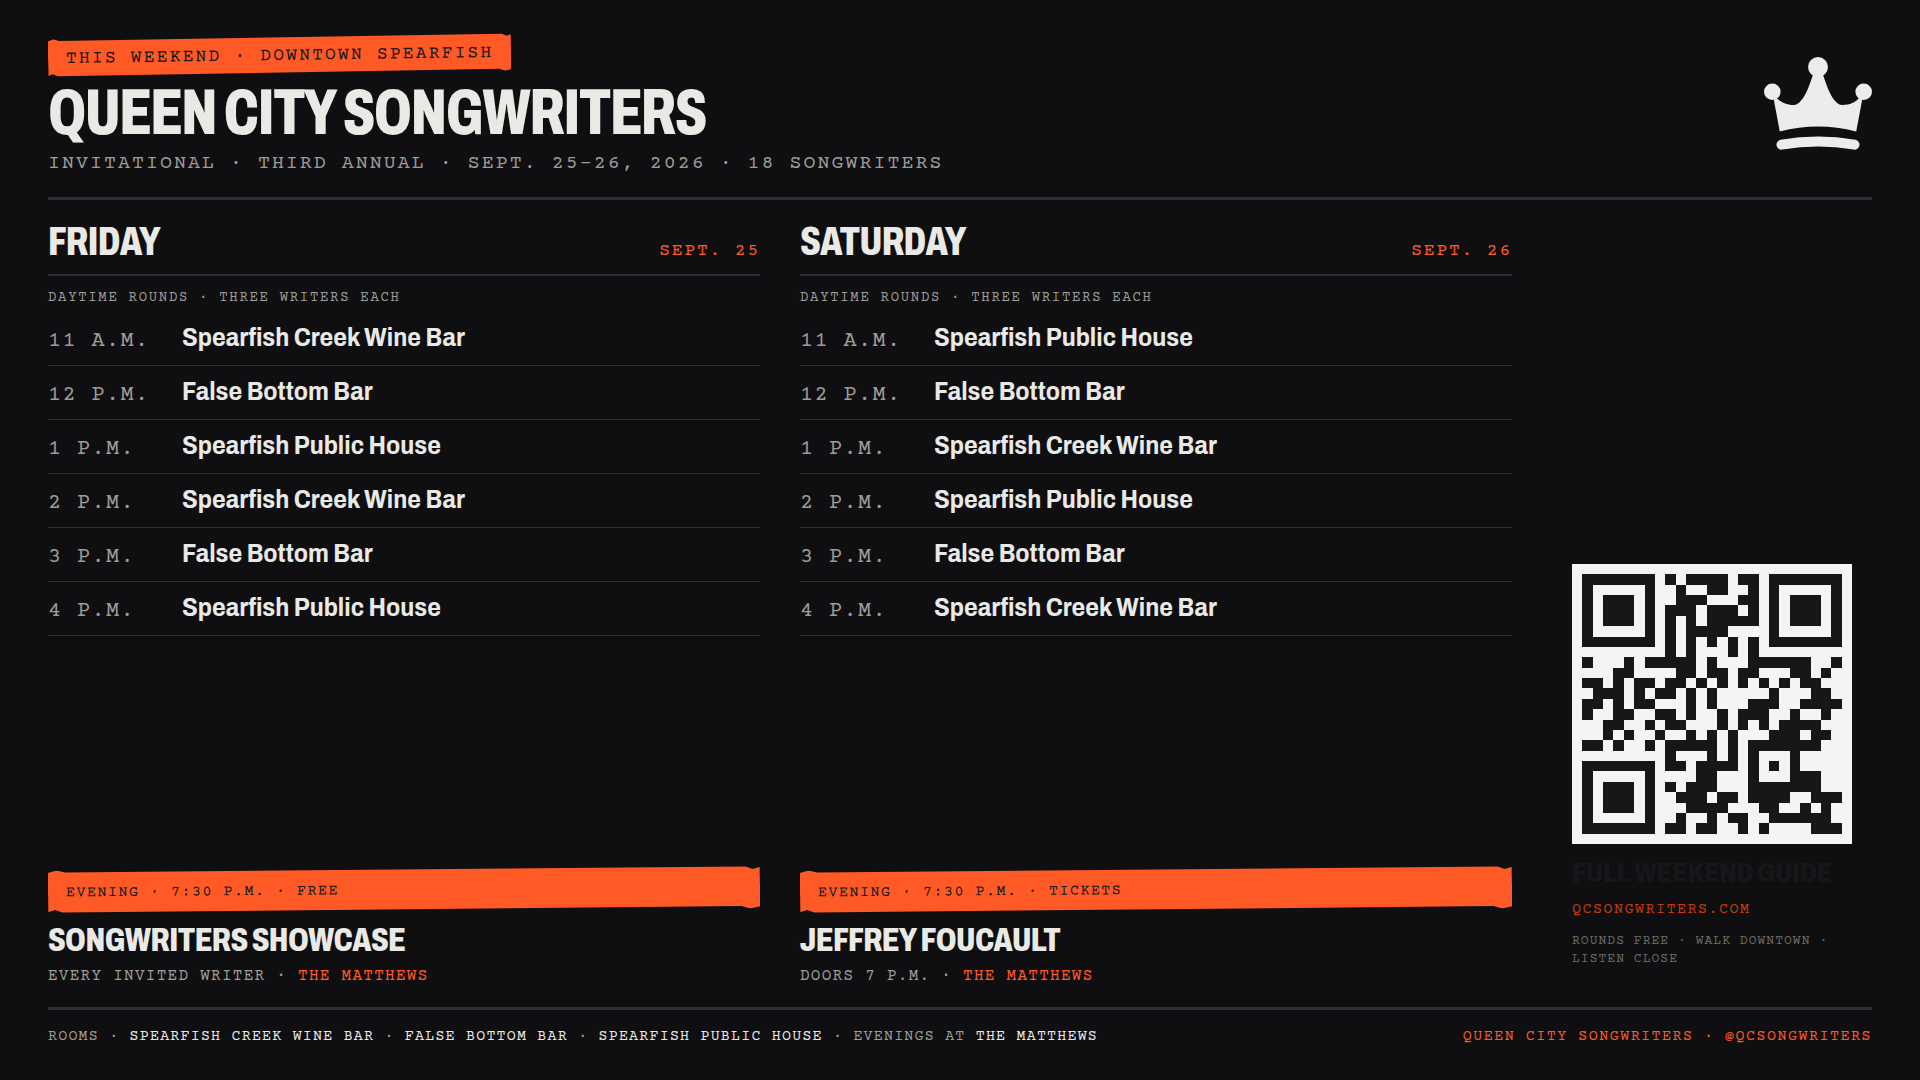
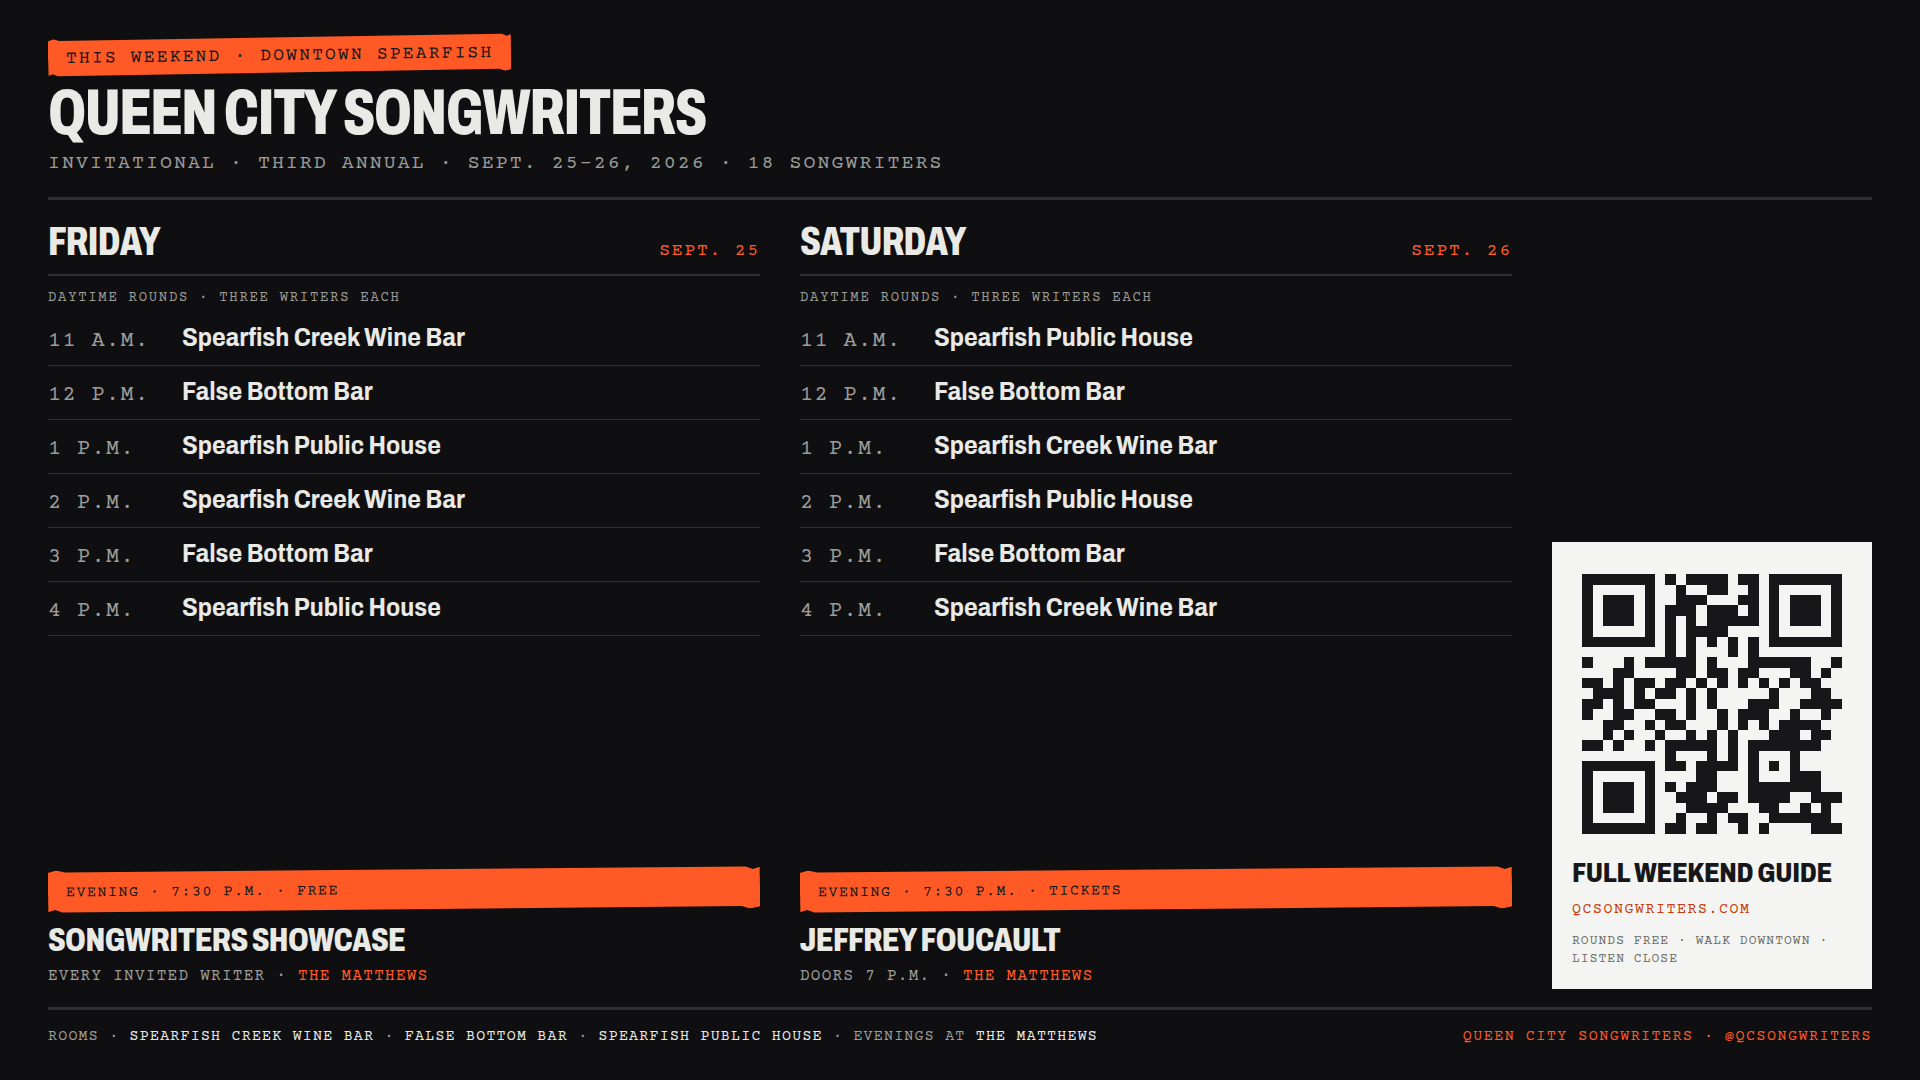
Fix weekend TV CTA paper sheet: use --stock so Field Rule paints.
Undefined --paper left ink labels on the floor; QR sheet now uses the frames kit stock token and the PNG is re-exported.

Changed region(s): [[0.7812, 0.4889, 1.0, 0.9167], [0.9062, 0.0611, 0.9688, 0.1528]]

diff --git a/public/_frames/weekend-tv.css b/public/_frames/weekend-tv.css
@@ -215,7 +215,8 @@ body.weekend-tv{
 }
 
 .cta-sheet{
-  background:var(--paper);
+  /* brand.css names the stock --stock; --paper is a site/DESIGN token only */
+  background:var(--stock);
   color:var(--ink);
   padding:22px 20px 20px;
   display:flex;
@@ -229,7 +230,7 @@ body.weekend-tv{
   aspect-ratio:1;
   object-fit:contain;
   display:block;
-  background:var(--paper);
+  background:var(--stock);
   mix-blend-mode:normal;
   filter:none;
 }
